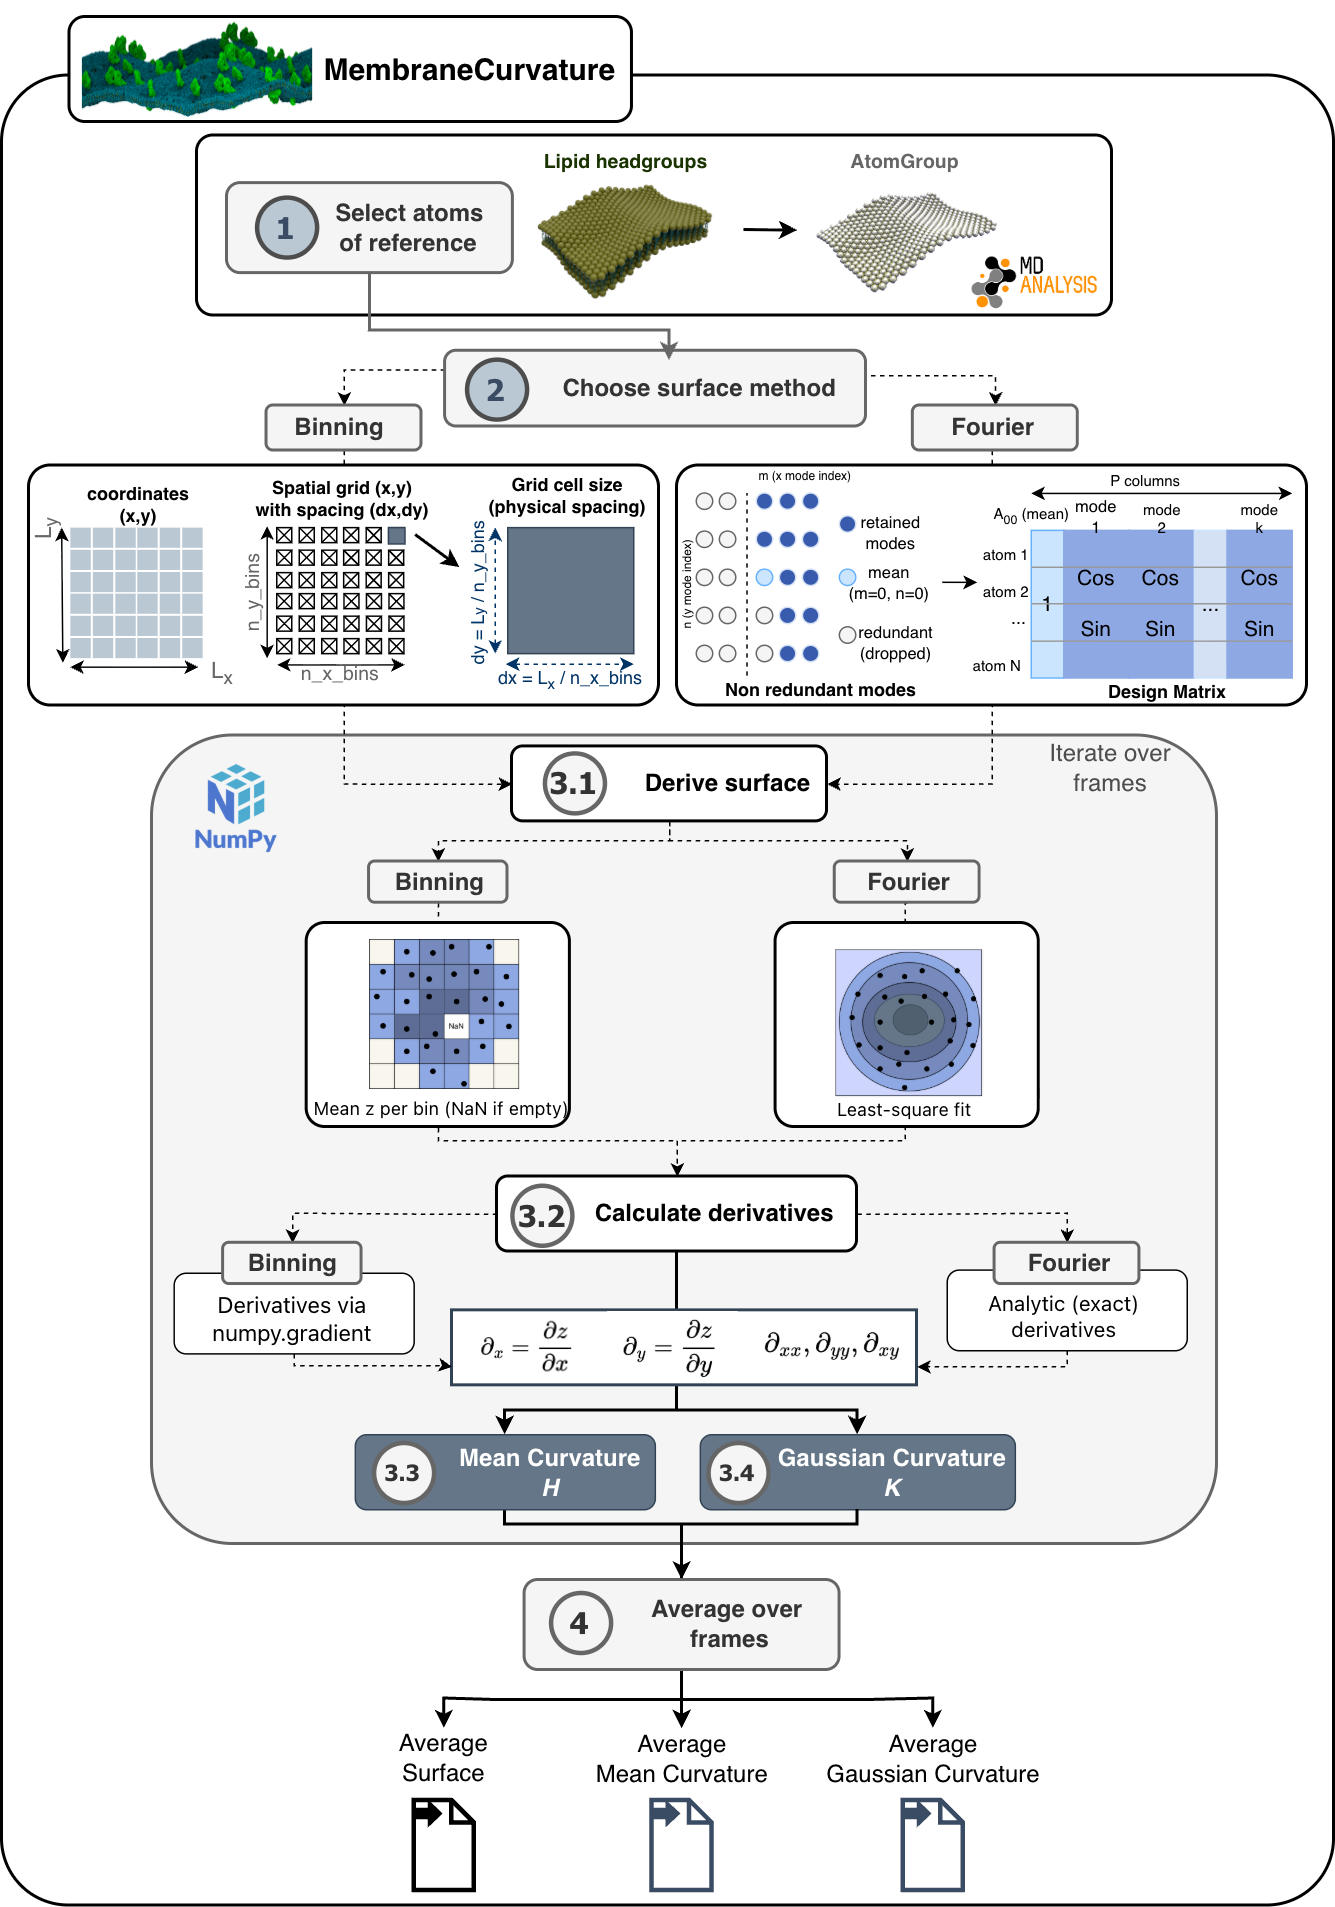
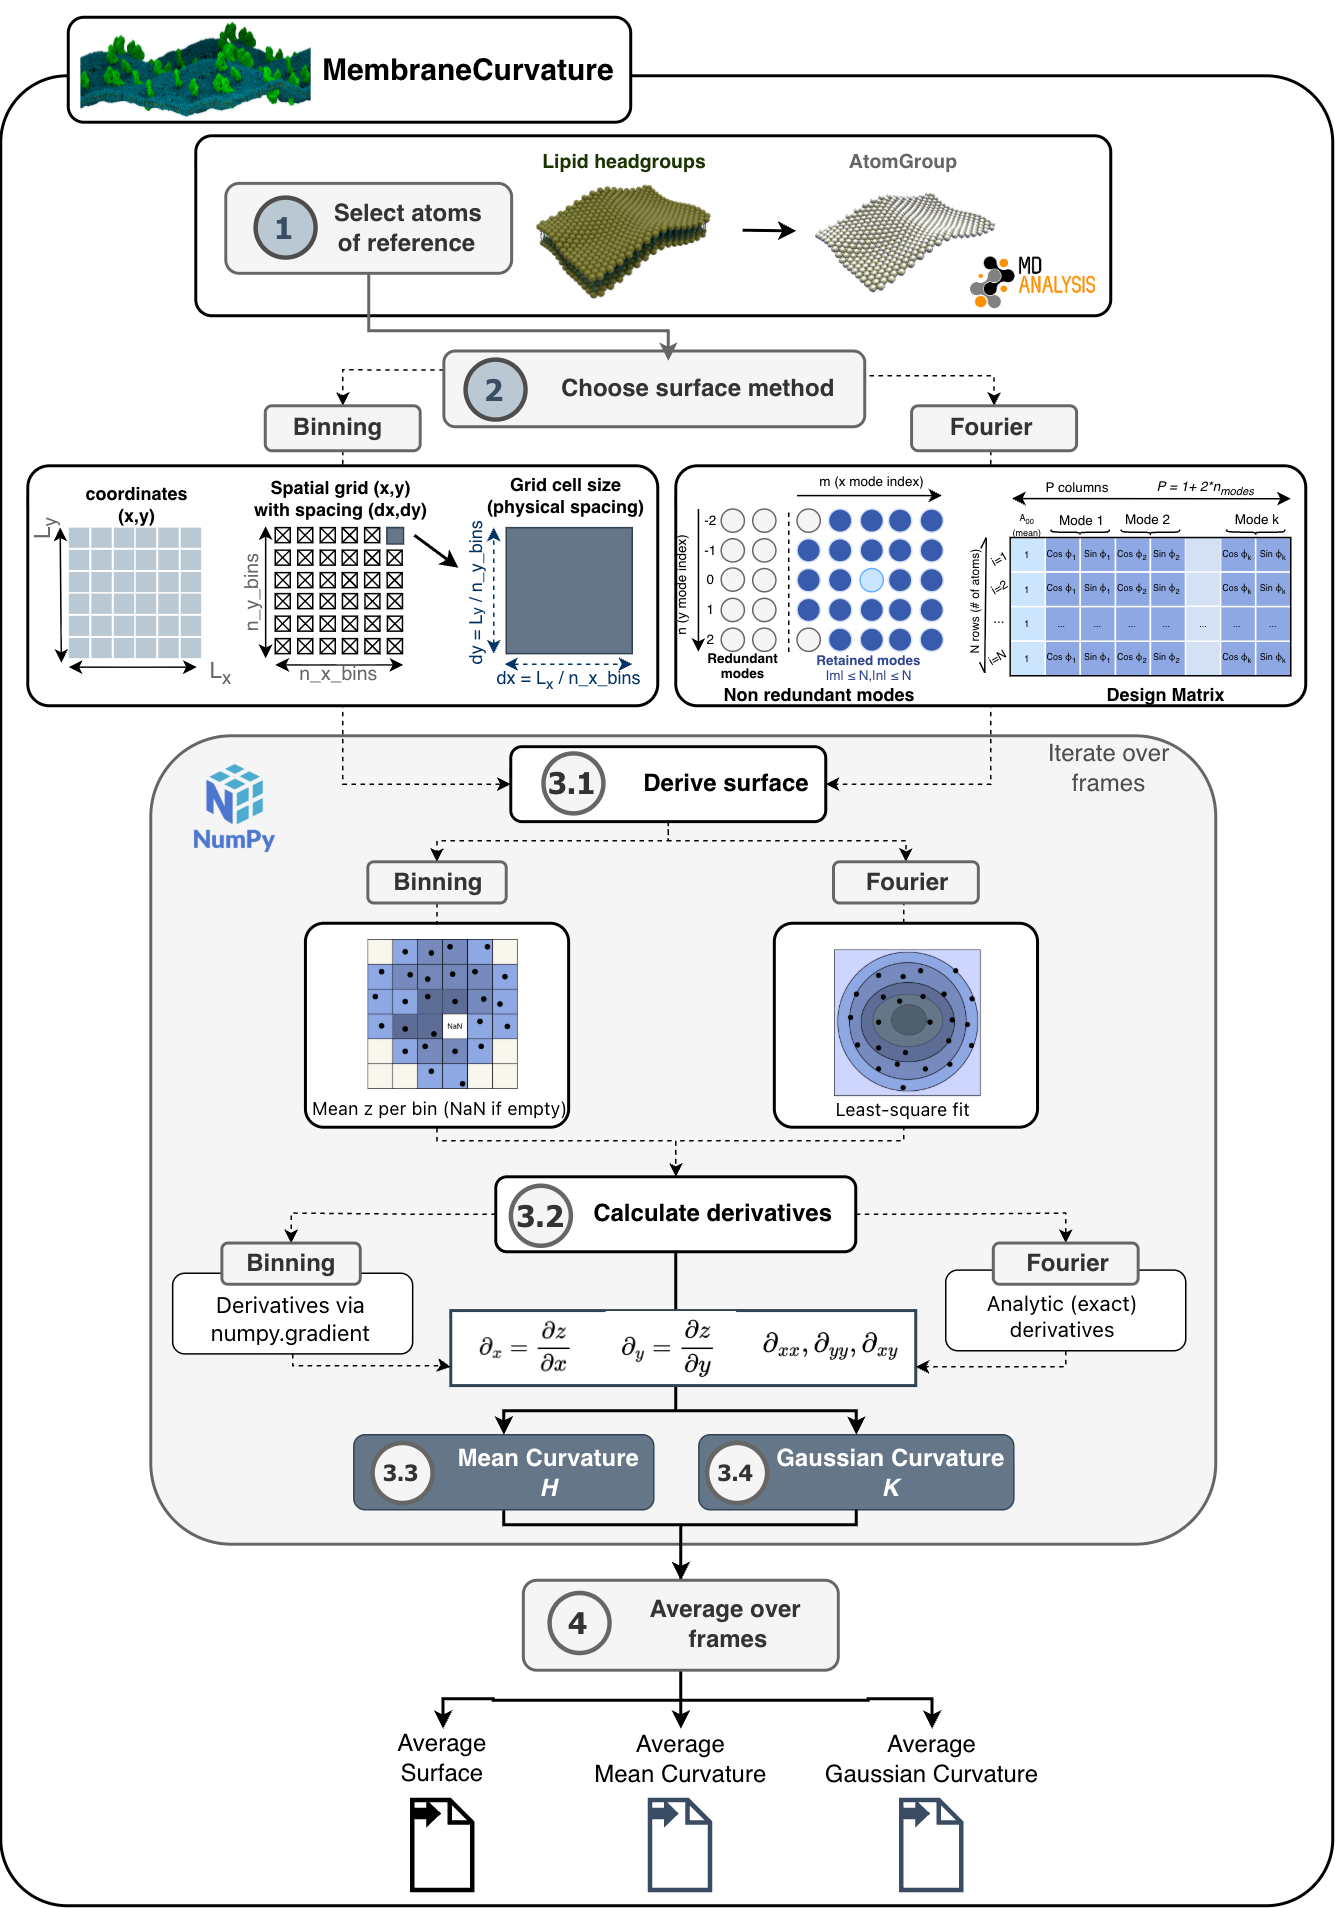
Address comments, improve clarity and figs

diff --git a/docs/source/pages/Algorithm.rst b/docs/source/pages/Algorithm.rst
@@ -77,6 +77,8 @@ beyond the grid dimensions.
 
 In the next section, we describe the details of the binning method.
 
+.. _set-grid:
+
 2.1.1. Set grid
 ^^^^^^^^^^^^^^^
 The dimensions of the grid are determined by the size of the simulation box
@@ -117,8 +119,8 @@ cell are collected to form a height field over the grid.
 Coordinates are converted to integer bin indices via scale factors
 
 .. math::
-   x\_factor = \frac{n\_x\_bins}{x_{max} - x_{min}}, \qquad
-   y\_factor = \frac{n\_y\_bins}{y_{max} - y_{min}}
+   x\_factor = \frac{n\_x\_bins}{x_{\max} - x_{\min}}, \qquad
+   y\_factor = \frac{n\_y\_bins}{y_{\max} - y_{\min}}
 
 and then floored ``(index = floor(x * x_factor))``. Atoms with negative computed
 indices are skipped and trigger a one-time detailed warning; atoms whose
@@ -149,6 +151,26 @@ simulation box with periods :math:`L_x` and :math:`L_y`, so the fitted
 surface is consistent with periodic boundary conditions in :math:`x` and
 :math:`y`.
 
+The Fourier expansion used as a basis function is given by:
+
+.. math::
+
+   z(x, y) = A_{00} + \sum_{m=1}^{M}\sum_{n=1}^{N}\left[
+     A_{mn}\cos\!\big(k_x m x + k_y n y\big)
+     +\,B_{mn}\sin\!\big(k_x m x + k_y n y\big)
+   \right].
+
+Here, :math:`k_x` and :math:`k_y` are the fundamental wavevector components:
+
+.. math::
+
+  k_x = \frac{2\pi}{L_x}, \qquad k_y = \frac{2\pi}{L_y}
+
+therefore the phase for the mode ``(m,n)`` is
+
+.. math ::
+  (k_x m x + k_y n y).
+
 The Fourier surface algorithm implemented in MembraneCurvature follows
 the standard Fourier descriptor and Fourier surface-model approaches for
 geometric shape modeling in [CAG2009]_ [JMG1988]_.
@@ -162,7 +184,10 @@ geometric shape modeling in [CAG2009]_ [JMG1988]_.
 The full Fourier surface workflow comprises six steps, where the first four steps build and
 solve a linear model that reconstructs the height field from plane-wave basis
 functions. The final two steps evaluate the fitted surface and its derivatives
-analytically on a grid of bin centres.
+analytically on a grid of bin centres. In the following sections, we describe the
+overall workflow implemented in MembraneCurvature. For details on each step and
+the associated functions, see the API documentation in
+:mod:`~membrane_curvature.fourier_surface`.
 
 2.2.1 Choose Fourier modes
 ^^^^^^^^^^^^^^^^^^^^^^^^^^^
@@ -176,7 +201,7 @@ mean term.
 
 2.2.2 Compute wavevectors
 ^^^^^^^^^^^^^^^^^^^^^^^^^^
-Compute the wavevector components (:math:`k_x`, :math:`k_y`) for each mode
+We then compute the wavevector components (:math:`k_x`, :math:`k_y`) for each mode
 using :func:`~membrane_curvature.fourier_surface._compute_wavevector`. These
 set the phase :math:`\phi = k_x x + k_y y` that appears in each cosine/sine
 basis function.
@@ -190,26 +215,86 @@ basis function.
   increase them only while curvature improves systematically rather than
   starts adding noise.
 
-2.2.4 Build design matrix
+.. _build-design-matrix:
+
+2.2.3 Build design matrix
 ^^^^^^^^^^^^^^^^^^^^^^^^^^
-Build the design matrix with :func:`~membrane_curvature.fourier_surface._build_fourier_matrix`.
-Each row corresponds to an atom position and columns are the constant offset
-followed by ``cos(k·r)``, ``sin(k·r)`` pairs for every retained mode; the
-design matrix encodes the linear relation between Fourier coefficients and
-observed heights.
+We then build the design matrix with :func:`~membrane_curvature.fourier_surface._build_fourier_matrix`.
+Each row of the design matrix corresponds to an atom position and columns are the constant offset
+followed by :math:`\cos(\mathbf{k}\cdot\mathbf{r})`, :math:`\sin(\mathbf{k}\cdot\mathbf{r})`
+pairs for every retained mode. This matrix encodes the linear relation between the
+Fourier coefficients and the observed heights.
+
+The design matrix :math:`\mathbf{\Phi}` is a matrix of shape :math:`(N, P)` where
+:math:`N` is the number of atoms in the :class:`~MDAnalysis.core.groups.AtomGroup`
+of reference, and :math:`P` is the number of parameters. :math:`P` is defined
+as :math:`P = 1 + 2\,n_{\text{modes}}` where :math:`n_{\text{modes}}` is the number of
+the k retained Fourier modes. 
+
+We can conceptualize :math:`\mathbf{\Phi}` as a matrix with rows corresponding to atom positions
+and columns corresponding to the basis functions (cosine and sine of the wavevector :math:`k`)
+evaluated at each atom position, so that the fitted heights satisfy the linear system of equations
+:math:`\mathbf{z} \approx \mathbf{\Phi}\,\boldsymbol{\theta}`, from which we can solve
+for the Fourier coefficients by solving a least-squares system.
+
+A single row :math:`i` of :math:`\mathbf{\Phi}` for an atom at
+:math:`\mathbf{r}_i=(x_i,y_i)` has the form:
+
+.. math::
+
+   \begin{aligned}
+   \mathbf{\Phi}_{i,:} = \big[\, & 1, \\
+   & \cos\big(\phi_{m_1,n_1}(\mathbf{r}_i)\big),\;
+     \sin\big(\phi_{m_1,n_1}(\mathbf{r}_i)\big), \\
+   & \ldots, \\
+   & \cos\big(\phi_{m_{k},n_{k}}(\mathbf{r}_i)\big),\;
+     \sin\big(\phi_{m_{k},n_{k}}(\mathbf{r}_i)\big)
+   \,\big]
+   \end{aligned}
+
+With this formulation, we can solve for the Fourier coefficients by solving a least-squares system:
+
+.. math::
+
+  \mathbf{z} \approx \mathbf{\Phi}\,\boldsymbol{\theta}
+
+where :math:`\boldsymbol{\theta}` is the vector of Fourier coefficients. These coefficients are
+the ones we use to reconstruct the height field and calculate the derivatives.
 
 |fourier_matrix|
 
-2.2.5 Solve least-squares system
+Note that the column ordering follows the mode list returned by
+:func:`~membrane_curvature.fourier_surface.fourier_mode_list`. For each retained
+mode ``(m,n)`` the design matrix contains a cosine column then a sine column,
+so columns appear as ``1, cos_{(m1,n1)}, sin_{(m1,n1)}, cos_{(m2,n2)}, sin_{(m2,n2)}, ...``.
+
+.. important::
+
+  **In summary:**
+
+  The design matrix :math:`\mathbf{\Phi}` has shape :math:`(N, P)` where rows (:math:`N`) are atoms
+  and columns (:math:`P`) are the basis functions. :math:`N` is the number of atoms in the
+  :class:`~MDAnalysis.core.groups.AtomGroup` of reference. :math:`P` is the total number of parameters:
+  
+  .. math::
+    P = 1 + 2\,n_{\text{modes}}
+
+  which is the sum of one constant column (the mean term :math:`A_{00}`) plus two columns
+  for each retained Fourier mode (one for cosine and one for sine).
+
+
+2.2.4 Solve least-squares system
 ^^^^^^^^^^^^^^^^^^^^^^^^^^^^^^^^
-Solve the least-squares system for the Fourier coefficients using
+We then solve the least-squares system for the Fourier coefficients using
 :func:`~membrane_curvature.fourier_surface._fourier_fit_from_atoms` (which
-calls :func:`numpy.linalg.lstsq`). Split the solution into the mean term and
+calls :func:`numpy.linalg.lstsq`). 
+This function solves the least-squares system for the Fourier coefficients and splits the solution vector into the mean term and
 the per-mode amplitudes with :func:`~membrane_curvature.fourier_surface._unpack_coefficients`.
 The returned coefficients are then used to evaluate the fitted height and its
-analytic derivatives on the bin-centre mesh.
+analytic derivatives on the bin-centre mesh via :func:`~membrane_curvature.fourier_surface._eval_fourier_surface`.
 
-The Fourier coefficients are obtained by linear least squares
+The Fourier coefficients are obtained by linear least squares. The coefficients are obtained
+by minimizing the residual sum of squares between the observed heights and the fitted heights:
 
 .. math::
 
@@ -220,8 +305,7 @@ The Fourier coefficients are obtained by linear least squares
 via :func:`numpy.linalg.lstsq`. Because the model is linear in
 :math:`\boldsymbol{\theta}`, no nonlinear optimisation is required.
 If the effective rank of :math:`\mathbf{\Phi}` is smaller than :math:`P`,
-a ``UserWarning`` is emitted; see :ref:`practical-considerations` for
-guidance on choosing ``fourier_m`` and ``fourier_n``.
+a ``UserWarning`` is emitted.
 
 .. _derive-surface-curvature:
 
@@ -271,6 +355,24 @@ and :math:`\partial_{yy}`, and the mixed derivative :math:`\partial_{xy}`.
 
 |surf_fourier|
 
+.. important::
+  
+  **There is a key difference between the binning and Fourier methods when it comes to calculating the derivatives!**
+  
+  - With the binning method, the derivatives are estimated numerically from
+    the discrete height field using :func:`numpy.gradient` with the physical
+    spacings :math:`\Delta x` and :math:`\Delta y`, so that curvature values are in physical units.
+
+  - With the Fourier method, the derivatives are evaluated analytically from the fitted Fourier
+    series, so they are not subject to finite-difference discretization error. Curvature accuracy
+    is instead governed by the Fourier series truncation.
+  
+  **Therefore, the two methods differ in what limits curvature accuracy:**
+  binning is sensitive to **finite-difference error** on the height grid (often worse when the grid is coarse),
+  while the Fourier pipeline is sensitive to **how well the truncated series fits the atom data**; its
+  derivatives are exact for that fitted surface at any output grid resolution, so refining the bin grid
+  alone does not remove truncation or sampling limitations.
+  
 3.2a. Binning + finite differences (``surface_method='binning'``)
 ^^^^^^^^^^^^^^^^^^^^^^^^^^^^^^^^^^^^^^^^^^^^^^^^^^^^^^^^^^^^^^^^^^
 
@@ -327,9 +429,9 @@ arrays using the Monge-gauge formula
 
 .. math::
 
-   H = \frac{(1+f_x^2)\,f_{yy} + (1+f_y^2)\,f_{xx}
-             - 2\,f_x f_y f_{xy}}
-            {2\,(1+f_x^2+f_y^2)^{3/2}}
+   H = \frac{(1+\partial_x^2)\,\partial_{yy} + (1+\partial_y^2)\,\partial_{xx}
+             - 2\,\partial_x \partial_y \partial_{xy}}
+            {2\,(1+\partial_x^2+\partial_y^2)^{3/2}}
 
 via :func:`~membrane_curvature.curvature.mean_curvature_monge`.
 
@@ -346,8 +448,8 @@ arrays using
 
 .. math::
 
-   K = \frac{f_{xx}\,f_{yy} - f_{xy}^2}
-            {(1+f_x^2+f_y^2)^{2}}
+   K = \frac{\partial_{xx}\,\partial_{yy} - \partial_{xy}^2}
+            {(1+\partial_x^2+\partial_y^2)^{2}}
 
 via :func:`~membrane_curvature.curvature.gaussian_curvature_monge`.
 
@@ -400,16 +502,16 @@ Each array has shape ``(n_x_bins, n_y_bins)``.
   :alt: FourierModes
 
 .. |fourier_matrix| image:: ../_static/Fourier_matrix.png
-  :width: 800
+  :width: 700
   :alt: FourierMatrix
 
 .. |derive_surfaces_comparison| image:: ../_static/derive_surfaces_comparison.png
-  :width: 800
+  :width: 600
   :alt: DeriveSurfacesComparison
 
 .. |surf_fourier| image:: ../_static/DeriveSurfCurv_Fourier.png
   :width: 800
-  :alt: CurvDiaagram
+  :alt: SurfCurvFourier
 
 .. |avg_frames| image:: ../_static/AvgFrames.png
   :width: 800
